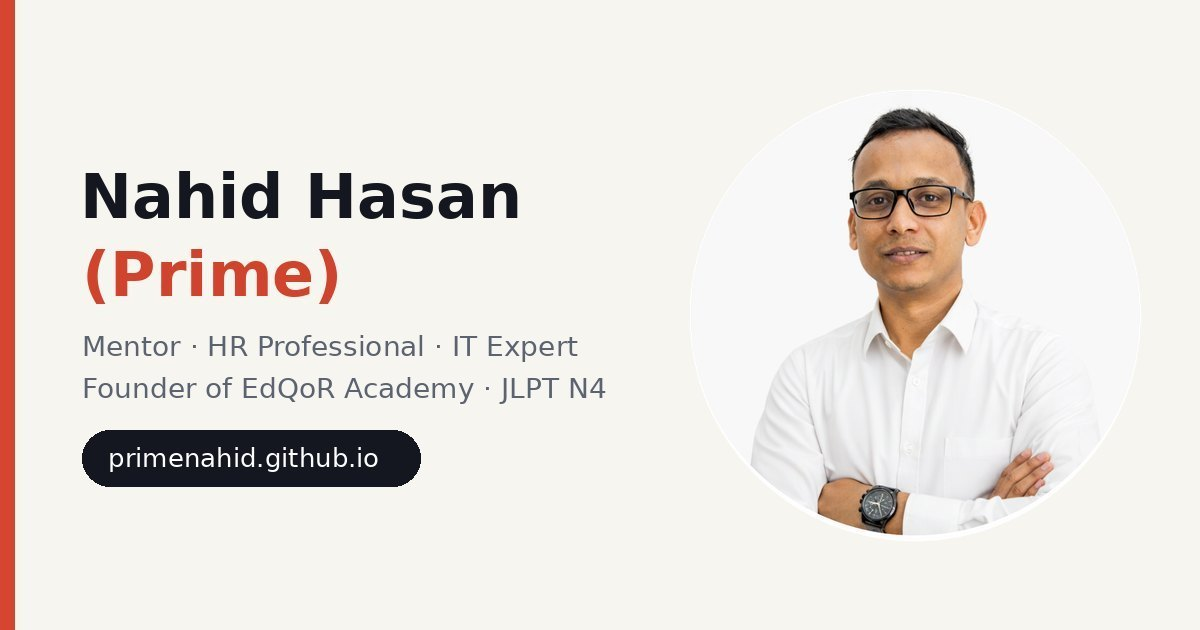
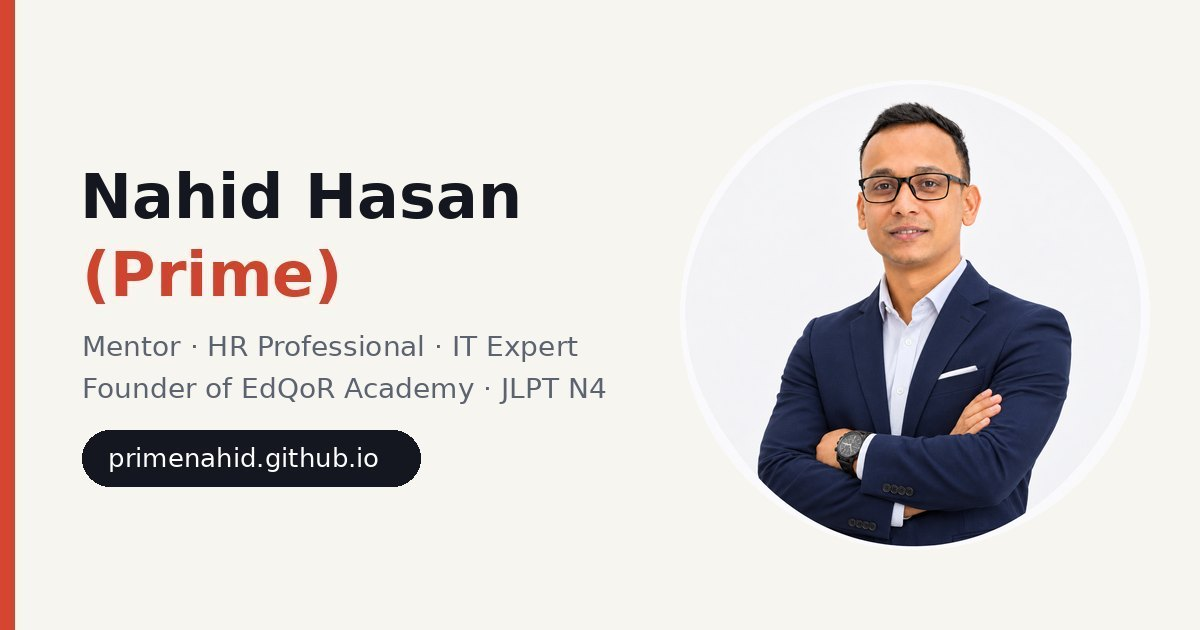
Add files via upload

Changed region(s): [[0.6167, 0.1508, 0.8942, 0.8746]]

diff --git a/index.html b/index.html
@@ -34,12 +34,12 @@
   <link rel="preload" as="style" href="https://fonts.googleapis.com/css2?family=Plus+Jakarta+Sans:wght@400;500;600;700;800&family=Noto+Sans+JP:wght@400;500;700;900&display=swap">
   <link href="https://fonts.googleapis.com/css2?family=Plus+Jakarta+Sans:wght@400;500;600;700;800&family=Noto+Sans+JP:wght@400;500;700;900&display=swap" rel="stylesheet" media="print" onload="this.media='all'">
   <noscript><link href="https://fonts.googleapis.com/css2?family=Plus+Jakarta+Sans:wght@400;500;600;700;800&family=Noto+Sans+JP:wght@400;500;700;900&display=swap" rel="stylesheet"></noscript>
-  <link rel="preload" as="image" href="assets/images/profile/nahid-hasan.webp">
+  <link rel="preload" as="image" href="assets/images/profile/nahid-hasan-720.webp" imagesrcset="assets/images/profile/nahid-hasan-440.webp 440w, assets/images/profile/nahid-hasan-720.webp 720w" imagesizes="(max-width: 640px) 240px, 440px" fetchpriority="high">
   <link rel="stylesheet" href="assets/css/style.css">
 
   <!-- Apply saved theme before paint to avoid a flash -->
   <script>
-    (function(){var d=document.documentElement;d.classList.add("js");try{var t=localStorage.getItem("nh-theme");if(t)d.dataset.theme=t;}catch(e){}var skip=matchMedia("(prefers-reduced-motion: reduce)").matches;try{if(sessionStorage.getItem("nh-intro"))skip=true;}catch(e){}d.classList.add(skip?"no-loader":"is-loading");setTimeout(function(){if(d.dataset.ready)return;d.classList.remove("is-loading","js");d.classList.add("no-loader");var l=document.getElementById("loader");if(l)l.remove();},4500);})();
+    (function(){var d=document.documentElement;d.classList.add("js");try{var t=localStorage.getItem("nh-theme");if(t)d.dataset.theme=t;}catch(e){}var skip=matchMedia("(prefers-reduced-motion: reduce)").matches;try{if(sessionStorage.getItem("nh-intro"))skip=true;}catch(e){}d.classList.add(skip?"no-loader":"is-loading");setTimeout(function(){if(d.dataset.ready)return;d.classList.remove("is-loading","js");d.classList.add("no-loader");var l=document.getElementById("loader");if(l)l.remove();},3000);})();
   </script>
 
   <script type="application/ld+json">
@@ -51,8 +51,8 @@
         "name":"Nahid Hasan","alternateName":"Prime",
         "url":"https://primenahid.github.io/",
         "image":"https://primenahid.github.io/assets/images/profile/nahid-hasan-512.png",
-        "jobTitle":["Mentor","HR Professional","IT Expert","Founder & Chairman of EdQoR Academy","Founder & Chairman of Projukti Bari","CMO at Scholars' Base","HR Officer at Growth IT"],
-        "worksFor":[{"@type":"Organization","name":"Scholars' Base","url":"https://scholarsbase.academy/"},{"@type":"Organization","name":"Growth IT"}],
+        "jobTitle":["Mentor","HR Professional","IT Expert","Founder & Chairman of EdQoR Academy","Founder & Chairman of Projukti Bari","HR Officer at Growth IT"],
+        "worksFor":[{"@type":"Organization","name":"Growth IT"}],
         "email":"mailto:primenahid@gmail.com",
         "knowsAbout":["HR Administration","IT Support","WordPress","Digital Marketing","Japanese Language","JLPT","ICT Education"],
         "knowsLanguage":["bn","en","ja"],
@@ -212,10 +212,10 @@
           </ul>
         </div>
 
-        <div class="hero__visual reveal">
+        <div class="hero__visual">
           <div class="portrait">
             <div class="portrait__ring" aria-hidden="true"></div>
-            <img src="assets/images/profile/nahid-hasan.webp" alt="Portrait of Nahid Hasan" width="720" height="720" fetchpriority="high">
+            <img src="assets/images/profile/nahid-hasan-720.webp" srcset="assets/images/profile/nahid-hasan-440.webp 440w, assets/images/profile/nahid-hasan-720.webp 720w" sizes="(max-width: 640px) 240px, 440px" alt="Portrait of Nahid Hasan" width="720" height="720" fetchpriority="high" decoding="async">
             <div class="portrait__orbit" aria-hidden="true">
               <span class="orb orb--1"><svg viewBox="0 0 200 160"><use href="#edqor-mark"/></svg></span>
               <span class="orb orb--2"><img src="assets/images/brand/projukti-bari-mark.webp" alt=""></span>
@@ -285,17 +285,17 @@
           <h2 data-i18n="ven.title">Two companies I lead.</h2>
           <p data-i18n="ven.lead">Education and digital services — built to help learners and businesses in Bangladesh grow.</p>
         </header>
-        <div class="founder reveal">
-          <img class="founder__photo" src="assets/images/profile/nahid-hasan.webp" alt="Nahid Hasan (Prime)" width="96" height="96" loading="lazy">
+        <section class="founder reveal" id="founder" aria-label="Founder">
+          <img class="founder__photo" src="assets/images/profile/nahid-hasan-440.webp" alt="Nahid Hasan (Prime)" width="96" height="96" loading="lazy">
           <div class="founder__info">
-            <span class="founder__label" data-i18n="ven.behind">The person behind both companies</span>
+            <span class="founder__label" data-i18n="ven.behind">Founder &amp; team lead</span>
             <h3>Nahid Hasan <span>(Prime)</span></h3>
             <p data-i18n="ven.founderRole">Founder &amp; Chairman — EdQoR Academy &amp; Projukti Bari</p>
           </div>
           <ul class="founder__creds" aria-label="Key credentials">
             <li>JLPT N4</li><li>JFT-Basic A2</li><li>PMEC</li><li>Google ×3</li>
           </ul>
-        </div>
+        </section>
         <div class="ventures">
           <article class="venture reveal">
             <div class="venture__logo venture__logo--edq"><svg class="edqor-logo" viewBox="0 0 530 160" role="img" aria-label="EdQoR Academy"><use href="#edqor-logo"/></svg></div>
@@ -358,22 +358,6 @@
         <ol class="timeline">
           <li class="timeline__rail" aria-hidden="true"><span class="timeline__fill"></span></li>
 
-          <li class="job reveal" style="--brand:#5b13a8">
-            <div class="job__head">
-              <a class="job__brand" href="https://scholarsbase.academy/" target="_blank" rel="noopener" aria-label="Scholars' Base website"><img src="assets/images/brand/scholars-base-mark.webp" alt="" width="160" height="160" loading="lazy"></a>
-              <div class="job__titles">
-                <h3 data-i18n="jobsb.title">CMO — Chief Monitoring Officer</h3>
-                <p class="job__org"><span>Scholars' Base</span> <a class="job__site" href="https://scholarsbase.academy/" target="_blank" rel="noopener">scholarsbase.academy <svg class="icon"><use href="#i-arrow"/></svg></a></p>
-              </div>
-              <div class="job__meta"><span class="job__date">2026 – <span data-i18n="exp.present">Present</span></span><span class="badge badge--live" data-i18n="exp.current">Current</span></div>
-            </div>
-            <div class="job__body">
-              <p data-i18n="jobsb.text">Part of the leadership team at Scholars' Base, an English-language learning centre in Bangladesh offering live online IELTS preparation, Spoken English, Kids English and Phonics programs — overseeing day-to-day operations and quality to help learners “learn today and lead tomorrow”.</p>
-              <ul class="tags"><li>Leadership</li><li>Operations</li><li>Quality Monitoring</li><li>EdTech</li><li>IELTS &amp; English</li></ul>
-              
-            </div>
-          </li>
-
           <li class="job reveal" style="--brand:#f26b1d">
             <div class="job__head">
               <span class="job__brand"><img src="assets/images/brand/growth-it-mark.webp" alt="" width="160" height="160" loading="lazy"></span>
@@ -386,6 +370,22 @@
             <div class="job__body">
               <p data-i18n="jobgi.text">Handling the HR function — recruitment and onboarding, employee records and documentation, attendance and leave tracking, and supporting a healthy, productive workplace.</p>
               <ul class="tags"><li>Human Resources</li><li>Recruitment</li><li>Onboarding</li><li>Employee Records</li><li>HR Administration</li></ul>
+              
+            </div>
+          </li>
+
+          <li class="job reveal" style="--brand:#5b13a8">
+            <div class="job__head">
+              <a class="job__brand" href="https://scholarsbase.academy/" target="_blank" rel="noopener" aria-label="Scholars' Base website"><img src="assets/images/brand/scholars-base-mark.webp" alt="" width="160" height="160" loading="lazy"></a>
+              <div class="job__titles">
+                <h3 data-i18n="jobsb.title">CMO — Chief Monitoring Officer</h3>
+                <p class="job__org"><span>Scholars' Base</span> <a class="job__site" href="https://scholarsbase.academy/" target="_blank" rel="noopener">scholarsbase.academy <svg class="icon"><use href="#i-arrow"/></svg></a></p>
+              </div>
+              <div class="job__meta"><span class="job__date" data-i18n="jobsb.date">2026 – Nov 2026</span></div>
+            </div>
+            <div class="job__body">
+              <p data-i18n="jobsb.text">Served on the leadership team at Scholars' Base, an English-language learning centre in Bangladesh offering live online IELTS preparation, Spoken English, Kids English and Phonics programs — oversaw day-to-day operations and teaching quality to help learners “learn today and lead tomorrow”.</p>
+              <ul class="tags"><li>Leadership</li><li>Operations</li><li>Quality Monitoring</li><li>EdTech</li><li>IELTS &amp; English</li></ul>
               
             </div>
           </li>
@@ -587,7 +587,7 @@
             <ul class="sk-tags"><li style="--i:0">Recruitment</li><li style="--i:1">Onboarding</li><li style="--i:2">Employee records</li><li style="--i:3">Attendance &amp; leave</li><li style="--i:4">HR administration</li><li style="--i:5">Operations</li></ul>
             <div class="sk-proof">
               <span class="sk-proof__label" data-i18n="sk.proof">Where I've used it</span>
-              <ul><li><span class="sk-proof__logo"><img src="assets/images/brand/growth-it-mark.webp" alt="" width="32" height="32" loading="lazy"></span><span>HR Officer · Growth IT</span></li><li><span class="sk-proof__logo"><img src="assets/images/brand/scholars-base-mark.webp" alt="" width="32" height="32" loading="lazy"></span><span>CMO · Scholars' Base</span></li><li><span class="sk-proof__logo sk-proof__logo--dot" aria-hidden="true">✓</span><span>Operations Executive · Modern Surveyors</span></li></ul>
+              <ul><li><span class="sk-proof__logo"><img src="assets/images/brand/growth-it-mark.webp" alt="" width="32" height="32" loading="lazy"></span><span>HR Officer · Growth IT</span></li><li><span class="sk-proof__logo"><img src="assets/images/brand/scholars-base-mark.webp" alt="" width="32" height="32" loading="lazy"></span><span>Former CMO · Scholars' Base</span></li><li><span class="sk-proof__logo sk-proof__logo--dot" aria-hidden="true">✓</span><span>Operations Executive · Modern Surveyors</span></li></ul>
             </div>
           </div>
           <div class="sk-panel" role="tabpanel" id="sk-panel-ai" aria-labelledby="sk-tab-ai" tabindex="0" hidden>
@@ -877,7 +877,7 @@
 
   <footer class="footer">
     <div class="container footer__creds">
-      <span class="footer__creds-label" data-i18n="footer.creds">Certifications</span>
+      <span class="footer__creds-label" data-i18n="footer.creds">Certifications &amp; credentials</span>
       <ul>
         <li><strong>JLPT N4</strong> · Japanese-Language Proficiency Test</li>
         <li><strong>JFT-Basic A2</strong> · Japan Foundation Test</li>
@@ -1044,7 +1044,7 @@
       "rev.eyebrow": "Reviews", "rev.title": "What my students & clients say.", 
       "form.type": "I'm sending", "form.typeInq": "An inquiry", "form.typeRev": "A review / testimonial",
       "form.descPhRev": "Your review: how do you know me, and what helped you most?",
-      "jobsb.title": "CMO — Chief Monitoring Officer", "jobsb.text": "Part of the leadership team at Scholars' Base, an English-language learning centre in Bangladesh offering live online IELTS preparation, Spoken English, Kids English and Phonics programs — overseeing day-to-day operations and quality to help learners “learn today and lead tomorrow”.",
+      "jobsb.title": "CMO — Chief Monitoring Officer", "jobsb.date": "2026 – Nov 2026", "jobsb.text": "Served on the leadership team at Scholars' Base, an English-language learning centre in Bangladesh offering live online IELTS preparation, Spoken English, Kids English and Phonics programs — oversaw day-to-day operations and teaching quality to help learners “learn today and lead tomorrow”.",
       "jobgi.title": "HR Officer", "jobgi.text": "Handling the HR function — recruitment and onboarding, employee records and documentation, attendance and leave tracking, and supporting a healthy, productive workplace.",
       "rev.write": "Write a review", "rev.empty": "Studied or worked with me? Be one of the first to share your experience.",
       "rev.formTitle": "Share your experience", "rev.formIntro": "Your review helps others know what it's like to learn or work with me. It will appear on this site after a quick check.",
@@ -1073,7 +1073,7 @@
       "contact.title": "Let's work together.",
       "contact.lead": "Recruiters, employers and clients — I'd be glad to hear about your role or project.",
       "contact.cta": "Send me an email", "contact.email": "Email", "contact.direct": "Or reach me directly", "contact.langs": "I speak", "contact.wa": "Username",
-      "footer.top": "Back to top", "footer.creds": "Certifications", "ven.behind": "The person behind both companies", "ven.founderRole": "Founder & Chairman — EdQoR Academy & Projukti Bari",
+      "footer.top": "Back to top", "footer.creds": "Certifications & credentials", "ven.behind": "Founder & team lead", "ven.founderRole": "Founder & Chairman — EdQoR Academy & Projukti Bari",
 
       "ui.copied": "Copied to clipboard", "ui.copyFail": "Couldn't copy — please copy manually",
       "ui.menuOpen": "Open menu", "ui.menuClose": "Close menu", "ui.theme": "Toggle dark mode"
@@ -1145,7 +1145,7 @@
       "rev.eyebrow": "レビュー", "rev.title": "受講生・クライアントの声。", 
       "form.type": "送信内容", "form.typeInq": "お問い合わせ", "form.typeRev": "レビュー・推薦の言葉",
       "form.descPhRev": "レビュー：私との関係と、特に役立ったことをお書きください。",
-      "jobsb.title": "CMO（チーフ・モニタリング・オフィサー）", "jobsb.text": "バングラデシュの英語教育機関 Scholars' Base の経営メンバー。IELTS対策、スピーキング、キッズ英語、フォニックスなどのオンライン講座を提供しており、日々の運営と品質管理を担当しています。",
+      "jobsb.title": "CMO（チーフ・モニタリング・オフィサー）", "jobsb.date": "2026年 – 2026年11月", "jobsb.text": "バングラデシュの英語教育機関 Scholars\' Base の経営メンバーとして、IELTS対策、スピーキング、キッズ英語、フォニックスなどのオンライン講座の日々の運営と授業品質の管理を担当しました。",
       "jobgi.title": "人事担当（HRオフィサー）", "jobgi.text": "採用・入社手続き、従業員記録と書類管理、勤怠・休暇管理など人事業務全般を担当し、働きやすい職場づくりを支えています。",
       "rev.write": "レビューを書く", "rev.empty": "一緒に学んだ・働いた方は、ぜひ最初のレビューをお寄せください。",
       "rev.formTitle": "あなたの体験を共有", "rev.formIntro": "レビューは、私と学ぶ・働くとどうなのかを他の方に伝える助けになります。確認後、このサイトに掲載されます。",
@@ -1174,7 +1174,7 @@
       "contact.title": "一緒に働きましょう。",
       "contact.lead": "採用担当者さま、企業さま、クライアントさま — お仕事やプロジェクトのご相談をお待ちしています。",
       "contact.cta": "メールを送る", "contact.email": "メール", "contact.direct": "直接のご連絡はこちら", "contact.langs": "対応言語", "contact.wa": "ユーザー名",
-      "footer.top": "トップへ戻る", "footer.creds": "資格", "ven.behind": "両社の代表", "ven.founderRole": "創業者・会長 — EdQoR Academy・Projukti Bari",
+      "footer.top": "トップへ戻る", "footer.creds": "資格・認定", "ven.behind": "創業者・代表", "ven.founderRole": "創業者・会長 — EdQoR Academy・Projukti Bari",
 
       "ui.copied": "コピーしました", "ui.copyFail": "コピーできませんでした",
       "ui.menuOpen": "メニューを開く", "ui.menuClose": "メニューを閉じる", "ui.theme": "ダークモード切替"
@@ -1357,9 +1357,9 @@
       setTimeout(() => el.remove(), 900);
     };
     const start = performance.now();
-    const finish = () => setTimeout(done, Math.max(0, 1700 - (performance.now() - start)));
+    const finish = () => setTimeout(done, Math.max(0, 900 - (performance.now() - start)));
     if (document.readyState === "complete") finish(); else addEventListener("load", finish, { once: true });
-    setTimeout(done, 3200); // safety
+    setTimeout(done, 2200); // safety
     el.addEventListener("click", done);
   }
 

diff --git a/assets/css/style.css b/assets/css/style.css
@@ -1375,7 +1375,7 @@ html[lang="ja"] .hero__title .w--accent > span { animation: riseFade .8s var(--e
 .loader__logo img { box-shadow: 0 0 0 4px var(--ink), 0 0 0 7px var(--accent), 0 24px 50px -10px rgba(189,56,34,.55); filter: grayscale(.1); }
 .loader__logo::after { width: 18px; height: 18px; right: 4px; top: 4px; border-width: 3px; border-color: var(--ink); }
 /* Pure-CSS safety: the intro can never stay on screen */
-.js.is-loading .loader { animation: loaderAutoHide .8s cubic-bezier(.77,0,.18,1) 3.6s forwards; }
+.js.is-loading .loader { animation: loaderAutoHide .8s cubic-bezier(.77,0,.18,1) 2.4s forwards; }
 @keyframes loaderAutoHide { to { clip-path: inset(0 0 100% 0); visibility: hidden; } }
 
 /* ---- Reveal v2: visible by default, animate on entry (crawler- and no-JS-safe) ---- */
@@ -1397,3 +1397,8 @@ html[lang="ja"] .hero__title .w--accent > span { animation: riseFade .8s var(--e
 :root[data-theme="dark"] .btn--accent, :root[data-theme="dark"] .promo__tag { background: #b8382a; }
 @media (prefers-color-scheme: dark) { :root:not([data-theme="light"]) .btn--accent, :root:not([data-theme="light"]) .promo__tag { background: #b8382a; } }
 @media (prefers-color-scheme: dark) { :root:not([data-theme="light"]) .cert__verify { color: #4ade80; } }
+
+/* LCP: hero portrait paints immediately; only the decorative ring/chips animate */
+.hero__visual { opacity: 1 !important; transform: none !important; animation: none !important; }
+.portrait img { content-visibility: visible; }
+.loader__bar i { animation-duration: .85s; }
